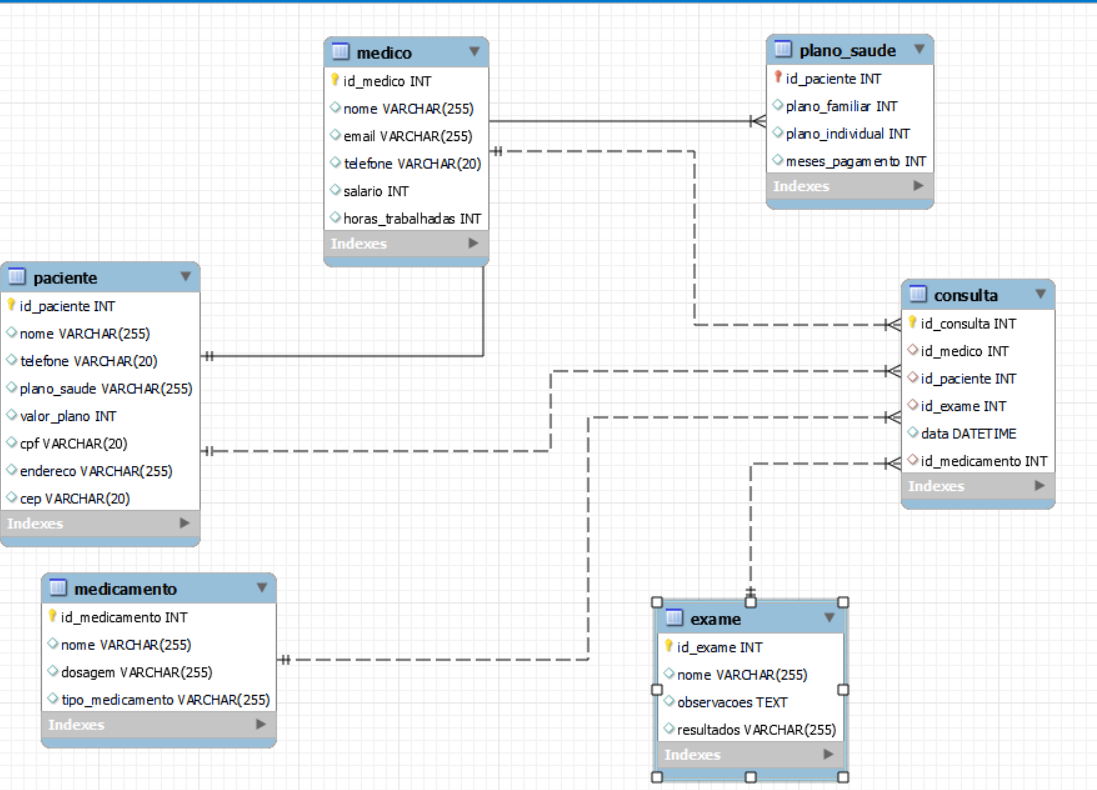
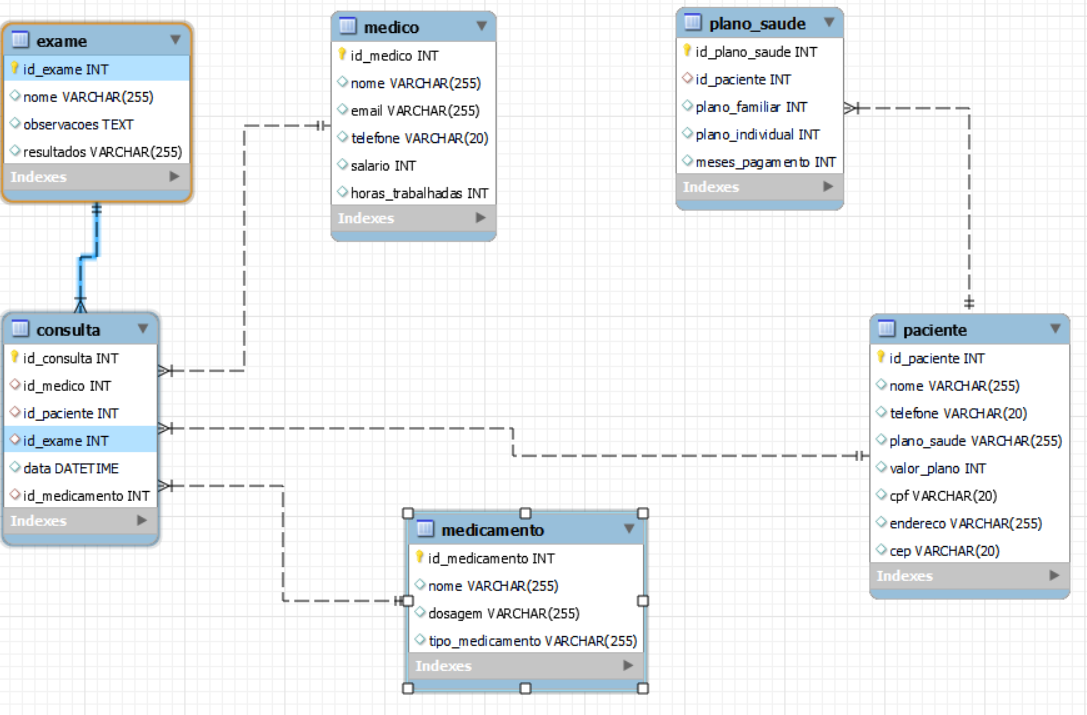
alterando imagem do diagrama conceitual, e, colocando no readme

Changed region(s): [[0.0, 0.0, 1.0, 1.0], [0.5465, 0.5231, 0.6983, 0.5538]]

diff --git a/README.md b/README.md
@@ -11,4 +11,10 @@ Objetivo:
 
 Este banco de dados tem como objetivo centralizar e organizar informações relacionadas à gestão de pacientes, médicos, consultas, exames, medicamentos e planos de saúde. A sua importância reside em proporcionar um sistema acessível não apenas para profissionais da saúde e empresas, mas também para pacientes e o público em geral. Isso permite um gerenciamento eficiente e seguro das informações de saúde, garantindo acesso rápido e preciso aos dados necessários para prestação de serviços médicos, administração de planos de saúde individuais e coletivos, além de facilitar análises estatísticas para aprimoramento contínuo dos serviços oferecidos, promovendo assim uma maior transparência e acessibilidade para todos os usuários do sistema
 
-![Texto Alternativo](diagramas/Diagrama%20ER.png)
+Diagrama ER:
+
+![diagrama ER](diagramas/Diagrama ER.png)
+
+Diagrama Conceitual:
+
+![diagrama conceitual](diagramas/Diagrama%20Conceitual.png)
